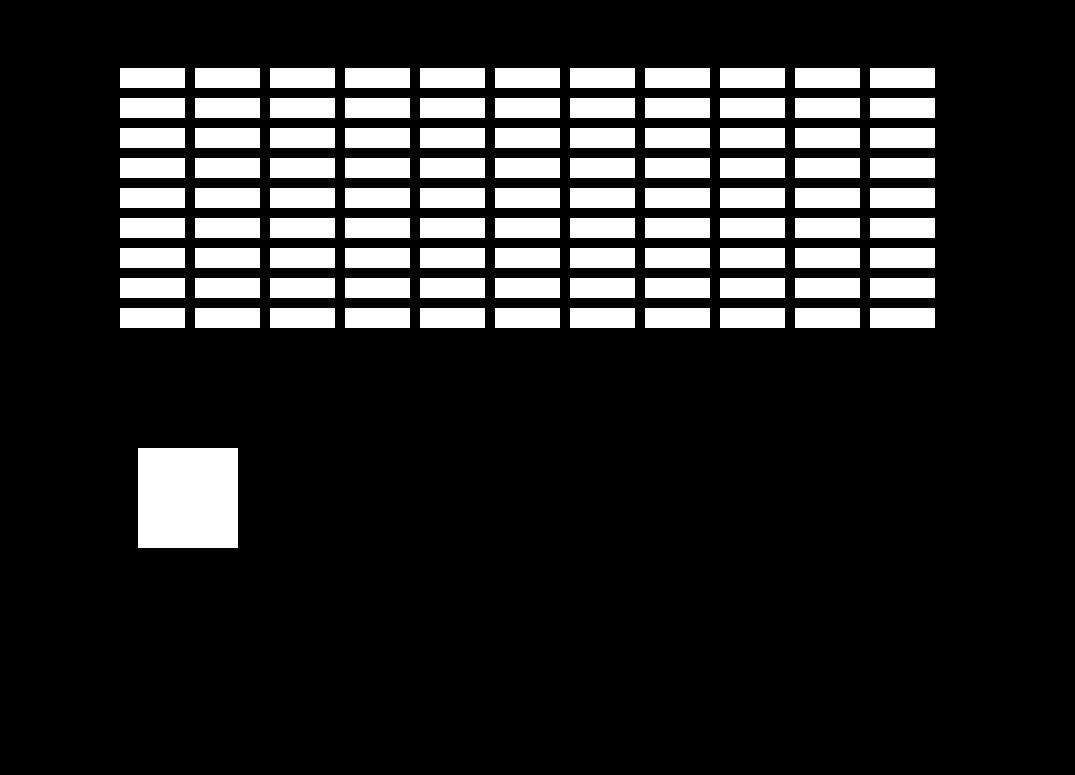
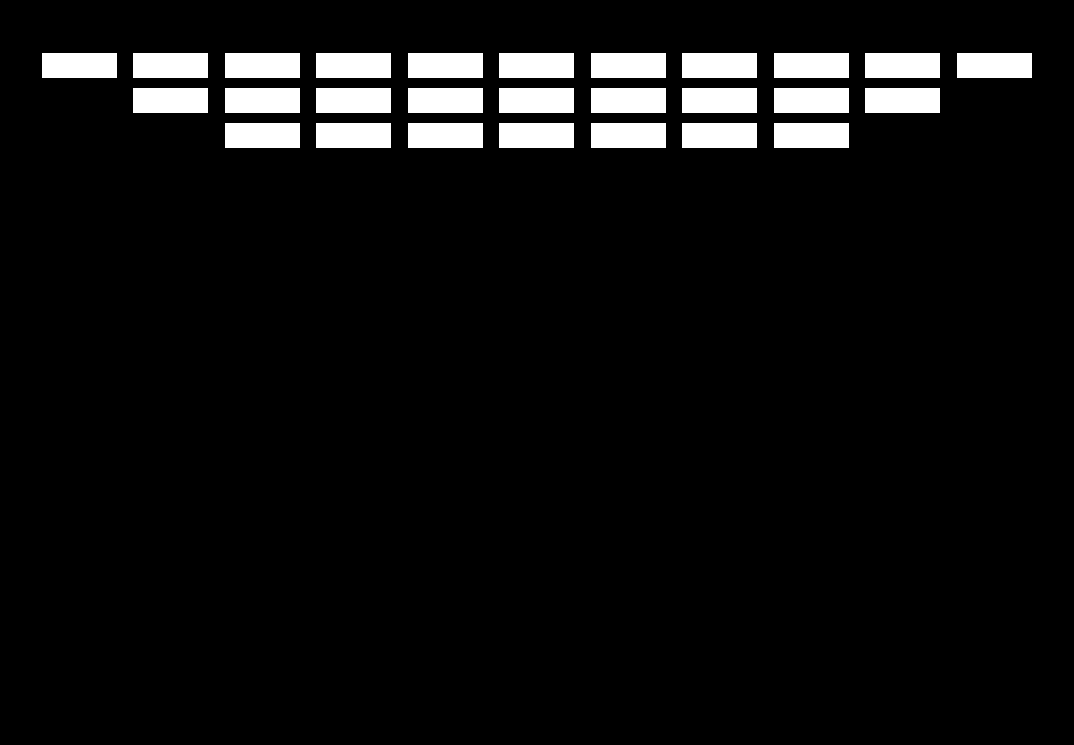
Created second level

Changed region(s): [[0.0307, 0.0617, 0.9832, 0.4322], [0.1229, 0.5557, 0.2458, 0.7101]]

diff --git a/core/src/com/mygdx/game/LevelSelectMenu.java b/core/src/com/mygdx/game/LevelSelectMenu.java
@@ -10,6 +10,8 @@ import com.badlogic.gdx.graphics.g2d.SpriteBatch;
 import com.badlogic.gdx.scenes.scene2d.Stage;
 import com.badlogic.gdx.utils.viewport.FitViewport;
 
+import java.util.ArrayList;
+
 public class LevelSelectMenu extends ApplicationAdapter implements ResizableScreen {
     private StateManager stateManager;
     private Texture background;
@@ -18,6 +20,8 @@ public class LevelSelectMenu extends ApplicationAdapter implements ResizableScre
     private OrthographicCamera cam2;
     private Stage nodeStage;
     private Stage scoreStage;
+    private ArrayList<LevelNodeActor> levelNodeActors;
+    private ArrayList<LevelNodeScoreActor> levelNodeScoreActors;
 
     public LevelSelectMenu(StateManager manager) {
         this.stateManager = manager;
@@ -33,9 +37,7 @@ public class LevelSelectMenu extends ApplicationAdapter implements ResizableScre
         cam2.position.set(cam.viewportWidth / 2, cam.viewportHeight / 2, 0);
         nodeStage = new Stage(new FitViewport(background.getWidth(), background.getHeight(), cam), batch);
         scoreStage = new Stage(new FitViewport(background.getWidth() * 10, background.getHeight() * 10,cam2));
-        //Single nodes
-        nodeStage.addActor(new LevelNodeActor(stateManager,10, 93, 1));
-        scoreStage.addActor(new LevelNodeScoreActor(10*10 + 10, 93*10,1));
+        addLevels();
 
         ButtonActor exitButton = new ButtonActor("mainMenuBackButtonDefault.png", "mainMenuBackButtonSelected.png", background.getWidth() / 2 - 65 / 2, 7 ) {
             @Override
@@ -43,7 +45,6 @@ public class LevelSelectMenu extends ApplicationAdapter implements ResizableScre
                 stateManager.changeState(StateManager.State.MENU);
             }
         };
-
         nodeStage.addActor(exitButton);
     }
 
@@ -62,6 +63,35 @@ public class LevelSelectMenu extends ApplicationAdapter implements ResizableScre
         batch.end();
         nodeStage.draw();
         scoreStage.draw();
+    }
+
+    private void addLevels() {
+        levelNodeActors = new ArrayList<>();
+        levelNodeScoreActors = new ArrayList<>();
+        int level = 1;
+        LevelNodeActor node;
+        LevelNodeScoreActor score;
+        for (int lv_loop = 0; lv_loop < 2; lv_loop++) {
+            node = new LevelNodeActor(stateManager,10 + lv_loop * 26, 93, level);
+            score = new LevelNodeScoreActor(110 + lv_loop * 260, 93*10,level);
+            level++;
+
+            levelNodeActors.add(node);
+            levelNodeScoreActors.add(score);
+
+            nodeStage.addActor(node);
+            scoreStage.addActor(score);
+        }
+
+    }
+
+    public void update() {
+        for (LevelNodeActor node: levelNodeActors) {
+            node.update();
+        }
+        for (LevelNodeScoreActor score: levelNodeScoreActors) {
+            score.update();
+        }
     }
 
 

diff --git a/core/src/com/mygdx/game/LevelTemplate.java b/core/src/com/mygdx/game/LevelTemplate.java
@@ -12,14 +12,31 @@ public class LevelTemplate {
         return null;
     }
 
+    public static float getSpeedForLevel(int level) {
+        switch (level) {
+            case 1: return 1;
+        }
+        return 1;
+    }
+
+    public static float getSpeedIncreaseForLevel(int level) {
+        switch (level) {
+            case 1: return 1;
+        }
+        return 1;
+    }
+
     private static ArrayList<TileTemplate> level1() {
         ArrayList<TileTemplate> templates = new ArrayList<TileTemplate>();
-        for (int k =1; k < 10; k++) {
-            for (int i = 1; i < 12; i++) {
-                templates.add(new TileTemplate(i*15 + 18, k* 6 +100 , 13, 4));
-            }
+        for (int k =1; k < 12; k++) {
+            templates.add(new TileTemplate(18.3f * k, 150, 15, 5));
         }
-        templates.add(new TileTemplate(40, 70, 20, 20));
+        for (int k =1; k < 10; k++) {
+            templates.add(new TileTemplate(18.3f + 18.3f * k, 143, 15, 5));
+        }
+        for (int k =1; k < 8; k++) {
+            templates.add(new TileTemplate(36.6f + 18.3f * k, 136, 15, 5));
+        }
         return templates;
     }
 

diff --git a/core/src/com/mygdx/game/MainGame.java b/core/src/com/mygdx/game/MainGame.java
@@ -139,17 +139,16 @@ public class MainGame extends ApplicationAdapter implements ResizableScreen {
 	}
 
 	private void gameOverLogic() {
-		stage.act();
 		if (scoreLabel.isScreenFinished()) {
 			if (Gdx.input.isButtonJustPressed(Input.Buttons.LEFT)) {
 				SaveGame.saveHighscore(this.level, score.getScore());
 				stateManager.changeState(StateManager.State.LEVELSELECT);
 			}
 		}
+		stage.act();
 	}
 
 	private void drawGame() {
-
 		lineRenderer.render(tiles.getTileCoordinatesPerLevel(2), Color.YELLOW);
 		lineRenderer.render(tiles.getTileCoordinatesPerLevel(3), Color.BLUE);
 		lineRenderer.render(tiles.getTileCoordinatesPerLevel(4), Color.PURPLE);
@@ -184,7 +183,7 @@ public class MainGame extends ApplicationAdapter implements ResizableScreen {
 
 	public void setLevel(int level) {
 		tiles.setTilesForLevel(LevelTemplate.getLevelTemplate(level));
-		setNewBall(new Ball(world, platform.getOriginX(), 1f, 1f));
+		setNewBall(new Ball(world, platform.getOriginX(), LevelTemplate.getSpeedForLevel(level), LevelTemplate.getSpeedIncreaseForLevel(level)));
 		this.score.resetScore();
 		stop = gameOver = false;
 		this.level = level;

diff --git a/core/src/com/mygdx/game/SaveGame.java b/core/src/com/mygdx/game/SaveGame.java
@@ -50,7 +50,7 @@ public class SaveGame {
 
         highscoreTreshold = new HashMap<>();
         //What highscores has to be reached in that level?
-        highscoreTreshold.put(1,500);
+        highscoreTreshold.put(1,400);
         highscoreTreshold.put(2,500);
         highscoreTreshold.put(3,500);
         highscoreTreshold.put(4,500);
@@ -116,7 +116,7 @@ public class SaveGame {
 
         long code = 0;
         try {
-            code = SaveGame.getSavedCode(level);
+            code = SaveGame.getSavedCode(level - 1);
         } catch (NoDataFoundException | InvalidLevelCodeException e) {
             return false;
         }

diff --git a/core/src/com/mygdx/game/LevelNodeActor.java b/core/src/com/mygdx/game/LevelNodeActor.java
@@ -23,7 +23,7 @@ public class LevelNodeActor extends Actor implements OnButtonClick {
         width = 21;
         position = new Vector2(xCord, yCord);
         this.stateManager = stateManager;
-        this.active = SaveGame.isLevelUnlocked(this.level);
+        update();
     }
 
     @Override
@@ -51,6 +51,10 @@ public class LevelNodeActor extends Actor implements OnButtonClick {
         if (active && includesMouse && isButtonClicked()) {
             onButtonClick();
         }
+    }
+
+    public void update() {
+        this.active = SaveGame.isLevelUnlocked(this.level);
     }
 
     @Override

diff --git a/core/src/com/mygdx/game/StateManager.java b/core/src/com/mygdx/game/StateManager.java
@@ -26,6 +26,7 @@ public class StateManager extends ApplicationAdapter {
         levelSelectMenu = new LevelSelectMenu(this);
         levelSelectMenu.create();
 
+        //changeLevel(2);
         changeState(State.MENU);
     }
 
@@ -61,6 +62,7 @@ public class StateManager extends ApplicationAdapter {
                 break;
             case LEVELSELECT:
                 levelSelectMenu.resize();
+                levelSelectMenu.update();
                 break;
         }
     }

diff --git a/core/src/com/mygdx/game/LevelNodeScoreActor.java b/core/src/com/mygdx/game/LevelNodeScoreActor.java
@@ -39,4 +39,10 @@ public class LevelNodeScoreActor extends Actor {
     public void act(float delta) {
         super.act(delta);
     }
+
+    public void update() {
+        this.currentScore = SaveGame.getSavedHighscore(this.level);
+        this.label.setText(String.valueOf(currentScore));
+    }
+
 }
